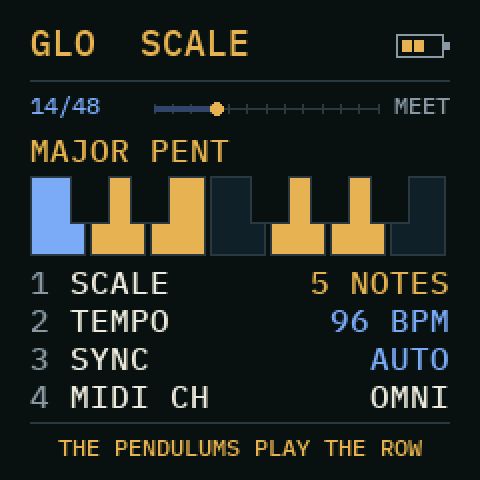
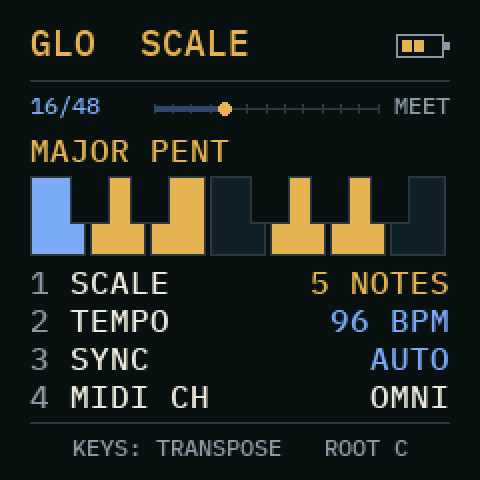
Manual: a screenshot of every page in its own section (EDIT: all three engines)
Claude-Session: https://claude.ai/code/session_01WXTHtg2USk519xnSSNwSR7

Changed region(s): [[0.125, 0.9062, 0.875, 0.9688], [0.4375, 0.1875, 0.5, 0.25], [0.0938, 0.1875, 0.125, 0.25]]

diff --git a/docs/OPERATOR-MANUAL.md b/docs/OPERATOR-MANUAL.md
@@ -4,6 +4,8 @@ PLUMB 0.3 for the M‑VAVE FM‑1. Twelve pendulums, one row of notes, three osc
 
 ## The idea in one minute
 
+<p align="center"><img src="screenshots/boot.png" width="320" alt="The boot screen: twelve brass plumb bobs on lines of falling length, caught mid-swing, and the version"></p>
+
 Twelve pendulums hang in a row. When they are released together, pendulum 1 swings `SWINGS` times in one cycle,
 pendulum 2 `SWINGS + 1` times, pendulum 12 `SWINGS + 11` times. Because every one of them makes a whole number of
 swings in the cycle, they drift apart, form waves, rows and chaos, and are **all back in a line at the end of the
@@ -54,6 +56,8 @@ The keys light up when a pendulum strikes their note.
 
 ## HOME: the row
 
+<p align="center"><img src="screenshots/home.png" width="320" alt="HOME: the twelve bobs seen from above in a snake across their lanes, pendulum 1 framed, the knobs NOTE, ROW, PENDULUMS, DAMP"></p>
+
 The picture shows the row from above: each bob swings across its lane, the blue line is where it strikes, the thin
 line through the bobs is the wave. A struck bob flashes; a caught one is an empty circle. The picked one is framed
 (red while REC is on).
@@ -67,6 +71,8 @@ line through the bobs is the wave. A struck bob flashes; a caught one is an empt
 
 ## SEQ: the swing
 
+<p align="center"><img src="screenshots/seq.png" width="320" alt="SEQ: the whole cycle, a lane a pendulum and a mark at each strike, the blue line at now; the knobs CYCLE, SWINGS, STRIKE, GRID"></p>
+
 The picture is the whole cycle at once: a lane for each pendulum, a mark for each strike, the blue line is now. Where
 many marks line up in a column, the pendulums meet.
 
@@ -79,6 +85,8 @@ many marks line up in a column, the pendulums meet.
 
 ## ARP: the pendulums play your keys
 
+<p align="center"><img src="screenshots/arp.png" width="320" alt="ARP ON: the notes the pendulums played from the keys held (E3 A3 C4 E4); the knobs PATTERN, RANGE, CHANCE, LATCH"></p>
+
 With the ARP on, hold a chord: every strike takes its note from the keys you hold instead of the row. Let go and they
 play the row again.
 
@@ -90,6 +98,13 @@ play the row again.
 | 4 | **LATCH** | ON: the chord stays when you let go; the next chord replaces it |
 
 ## EDIT: the bobs
+
+<p align="center">
+  <img src="screenshots/edit.png" width="240" alt="EDIT FOLD: a folded sine at rest and brighter at the strike; FOLDS, SYMMETRY, SPARK, WIDTH">
+  <img src="screenshots/edit-phase.png" width="240" alt="EDIT PHASE: a cosine bent toward a saw; DCW, SHAPE, SPARK, WIDTH">
+  <img src="screenshots/edit-pulsar.png" width="240" alt="EDIT PULSAR: one grain of sine in each cycle; FORMANT, DUTY, SPARK, WIDTH">
+</p>
+<p align="center"><sub>FOLD · PHASE · PULSAR</sub></p>
 
 ALGORITHM chooses what a strike sounds like. The picture is one cycle of the wave: dim at rest, bright at the strike.
 
@@ -106,10 +121,14 @@ ALGORITHM chooses what a strike sounds like. The picture is one cycle of the wav
 
 ## ENV: every strike
 
+<p align="center"><img src="screenshots/env.png" width="320" alt="ENV: the envelope of a strike; the knobs ATTACK, DECAY, SUSTAIN, RELEASE"></p>
+
 ATTACK, DECAY, SUSTAIN, RELEASE. A strike holds for half the time to that bob's next strike, then RELEASE. A key you
 play holds as long as you hold it.
 
 ## LFO
+
+<p align="center"><img src="screenshots/lfo.png" width="320" alt="LFO: the wave and where it is now; the knobs TARGET (here SPARK), WAVE, RATE, DEPTH"></p>
 
 | Knob | | |
 | --- | --- | --- |
@@ -120,9 +139,13 @@ play holds as long as you hold it.
 
 ## FX
 
+<p align="center"><img src="screenshots/fx.png" width="320" alt="FX: a strike, its echoes and the reverb's tail; the knobs REVERB, ECHO, TIME, CHORUS"></p>
+
 REVERB, ECHO, TIME (the echo, 1/32 to a dotted 1/4, on the tempo) and CHORUS, in parallel.
 
 ## GLO
+
+<p align="center"><img src="screenshots/glo.png" width="320" alt="GLO SCALE: MAJOR PENT on a piano octave, the root in blue; the knobs SCALE, TEMPO, SYNC, MIDI CH"></p>
 
 | Knob | | |
 | --- | --- | --- |
